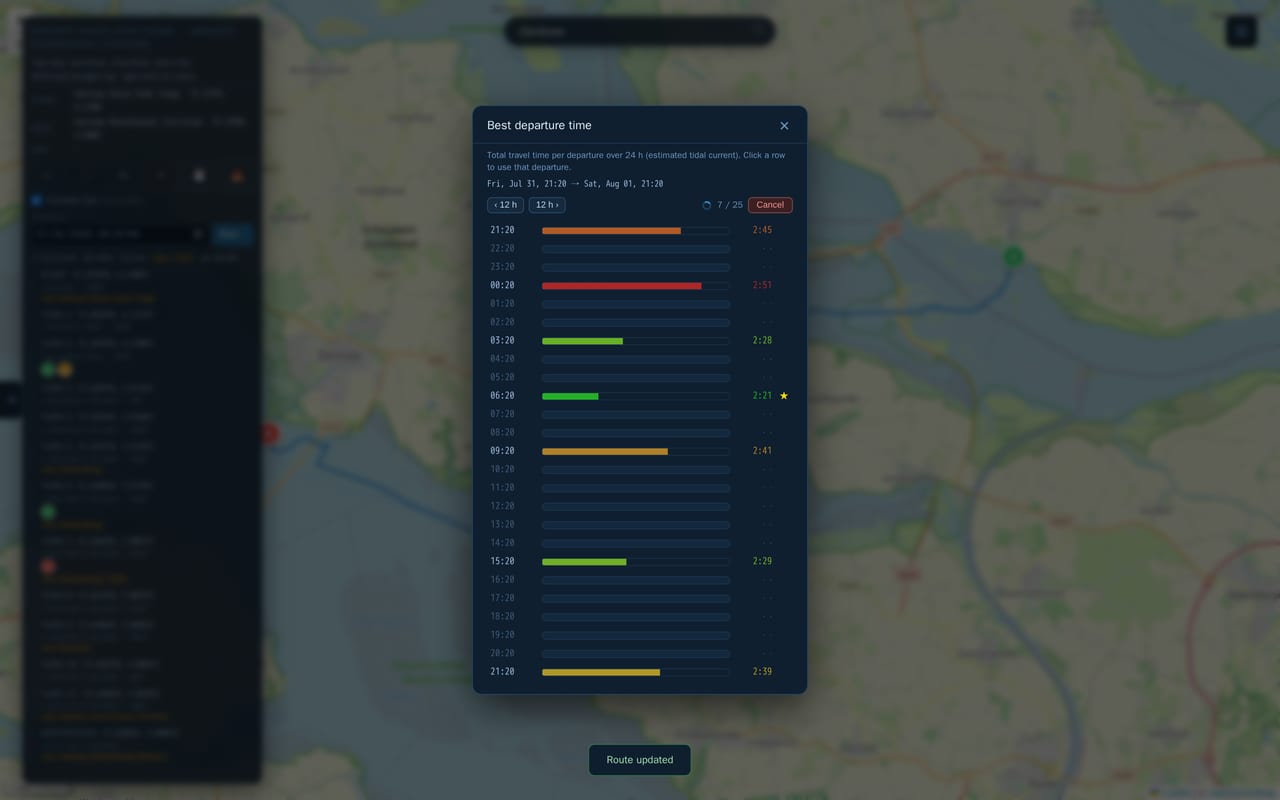
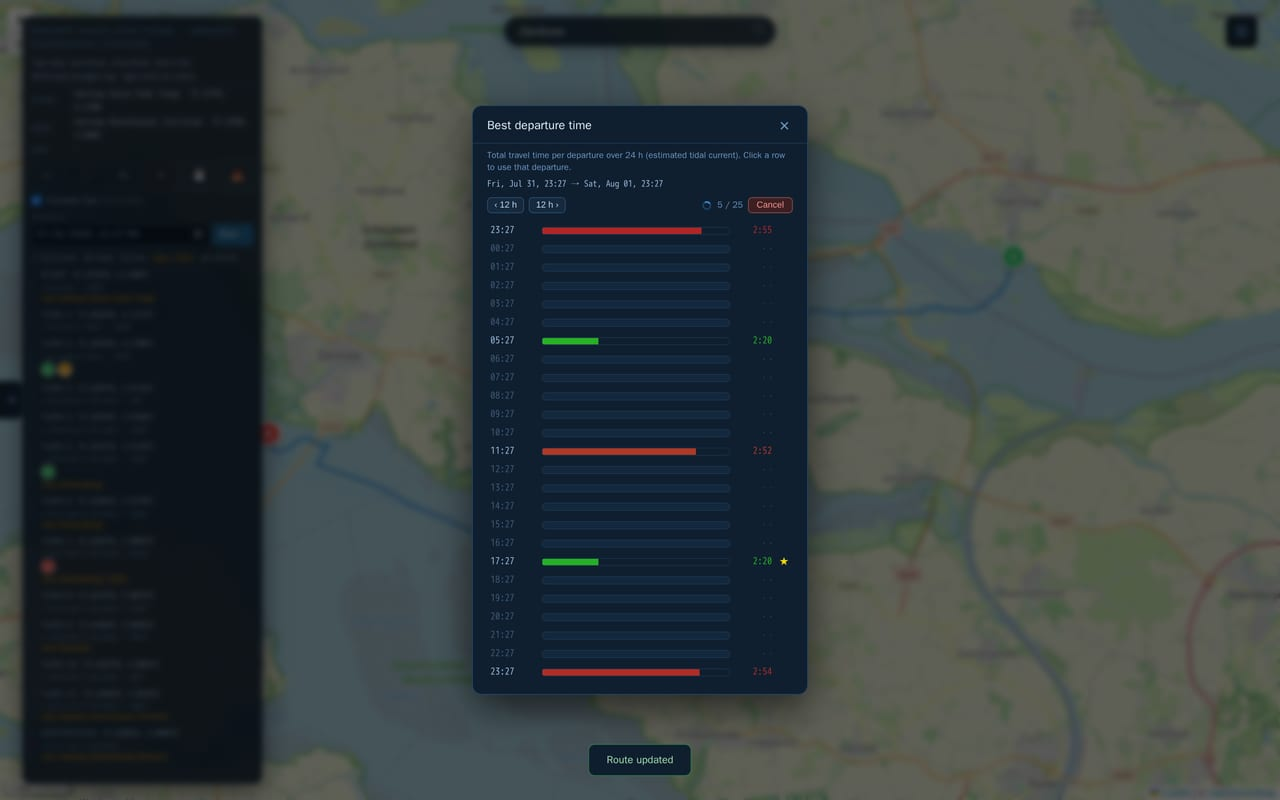
Aim the departure shot at the window that shows the point
The scan samples a ~12.4 h tidal cycle at 6 h, so what the first few results
show depends entirely on the phase the window opens at. Measured on this route:
a well-placed start reveals the full 35-minute spread within five results, a
badly placed one reveals six minutes of it and the planner looks pointless. The
phase drifts about 50 minutes a day, so a hardcoded clock time would only be
right on the day it was picked.

The shot now probes the next 24 h first and opens its window at the *slowest*
departure. That is the honest framing of what the planner is for: the top row is
what leaving now costs, and a departure half an hour quicker appears a few rows
below it, before the scan is a fifth done. Currently 2:55 against 2:20 on a
2.5 h passage.

Endpoints come off the app's own route request rather than its internals —
page.evaluate cannot reach a script's top-level bindings, and the route pane
only carries place names. The departure is typed through the input rather than
assigned to .value, so it registers as chosen; assigned, the planner would treat
the field as untouched and reset it to now.

diff --git a/CHANGELOG.md b/CHANGELOG.md
@@ -21,6 +21,9 @@
   start. The shape of the day is legible after a handful of results, which is
   usually enough to see where the good departures are long before the scan ends.
   The colour ramp and the ★ re-scale as results land.
+- Added: a fifth App Store screenshot, `img/webapp-departures.jpg` — the
+  departure planner mid-scan. Regenerate it with
+  `./scripts/screenshots.sh webapp-departures`.
 - Fixed: the departure planner mixed clock formats in one dialog — its rows are
   24 h, but the window it covers was rendered in whatever the locale preferred,
   so an en-US browser put "08:50 PM" directly above a column reading "20:50".
